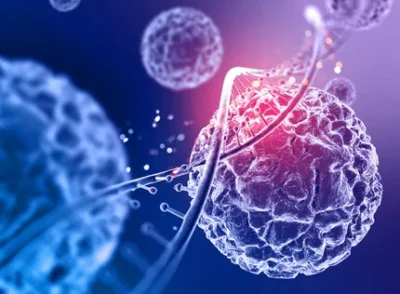
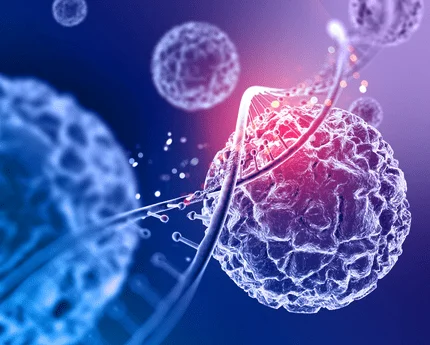
Correct clinic images, show all doctors, add booking links
Four changes from review:

- Dropped "همگی دارای بورد تخصصی و شمارهی نظام پزشکی قابل استعلام" from
  the homepage and service pages.
- The homepage doctor grid was sliced to six; it now lists all of them.
  The button below became a plain link to the doctors page.
- Clinic images were assigned by guesswork, same mistake as the doctor
  photos. Pulled from each clinic page's og:image on the live site
  instead. Eight of ten now correct; the endocrine and urology pages
  have no featured image at all upstream, so those stay null and the
  template renders its gradient.
- Address now includes تجریش.

Also adds booking_url and wires the doctor page's appointment buttons to
book.hamrahclinic.ir where a link exists.

Only nine of the seventeen booking entries are mapped — the ones whose
names match a doctor row unambiguously. The rest are deliberately left
empty rather than guessed, and are listed in the seed comment: the
booking list has فرناز خلیلی where the site has محبوبه خلیلی, has no
entry for مهناز عالمزاده بحرینی or حسام دانشآموز, and contains eight
doctors with no page on the site at all.

The Persian-filename images 404'd at first because the download
double-encoded already-UTF-8 bytes; percent-escaping them bytewise fixed
it.

diff --git a/app/views/doctor.php b/app/views/doctor.php
@@ -60,8 +60,14 @@ ob_start(); ?>
           <?php endif; ?>
         </div>
 
+        <?php // اگر پزشک نوبتدهی آنلاین دارد، مستقیم به آن برود ?>
         <div class="dhero-acts">
-          <a class="b b-teal" href="<?= url('/contact-us/') ?>">رزرو نوبت با ایشان</a>
+          <?php if (!empty($doc['booking_url'])): ?>
+            <a class="b b-teal" href="<?= e($doc['booking_url']) ?>"
+               target="_blank" rel="noopener">رزرو نوبت آنلاین</a>
+          <?php else: ?>
+            <a class="b b-teal" href="<?= url('/contact-us/') ?>">رزرو نوبت با ایشان</a>
+          <?php endif; ?>
           <a class="b b-ghost" href="tel:<?= e($tel) ?>"><?= e($phone) ?></a>
         </div>
       </div>
@@ -111,7 +117,12 @@ ob_start(); ?>
       <?php else: ?>
         <p>برای هماهنگی زمان ویزیت تماس بگیرید.</p>
       <?php endif; ?>
-      <a class="b b-teal b-full" href="<?= url('/contact-us/') ?>">انتخاب ساعت</a>
+      <?php if (!empty($doc['booking_url'])): ?>
+        <a class="b b-teal b-full" href="<?= e($doc['booking_url']) ?>"
+           target="_blank" rel="noopener">انتخاب ساعت آنلاین</a>
+      <?php else: ?>
+        <a class="b b-teal b-full" href="<?= url('/contact-us/') ?>">انتخاب ساعت</a>
+      <?php endif; ?>
       <a class="sbox-tel" href="tel:<?= e($tel) ?>"><?= e($phone) ?></a>
     </div>
 

diff --git a/app/views/home.php b/app/views/home.php
@@ -6,7 +6,7 @@
 /** @var Seo $seo */
 
 $clinics = $repo->clinics();
-$doctors = array_slice($repo->doctors(), 0, 6);
+$doctors = $repo->doctors();   // همهی پزشکان، نه فقط شش تای اول
 $posts   = $repo->posts(4);
 
 $nClinics = count($clinics);
@@ -146,7 +146,6 @@ ob_start(); ?>
   <div class="shead">
     <span class="lbl">تیم درمان</span>
     <h2>پزشکان همراه کلینیک</h2>
-    <p>همگی دارای بورد تخصصی و شمارهی نظام پزشکی قابل استعلام.</p>
   </div>
   <div class="dgrid">
     <?php foreach ($doctors as $d): ?>
@@ -170,7 +169,7 @@ ob_start(); ?>
     <?php endforeach; ?>
   </div>
   <p class="sec-more">
-    <a class="b b-out" href="<?= url('/team/') ?>">مشاهدهی همهی <?= fa((string) $nDoctors) ?> پزشک</a>
+    <a class="b b-out" href="<?= url('/team/') ?>">صفحهی پزشکان</a>
   </p>
 </div></section>
 <?php endif; ?>

diff --git a/app/views/service.php b/app/views/service.php
@@ -110,7 +110,6 @@ ob_start(); ?>
   <div class="shead">
     <span class="lbl">تیم این بخش</span>
     <h2>پزشکان <?= e($clinic['name'] ?? '') ?></h2>
-    <p>همگی دارای بورد تخصصی و شمارهی نظام پزشکی قابل استعلام.</p>
   </div>
   <div class="dgrid">
     <?php foreach ($docs as $d): ?>
